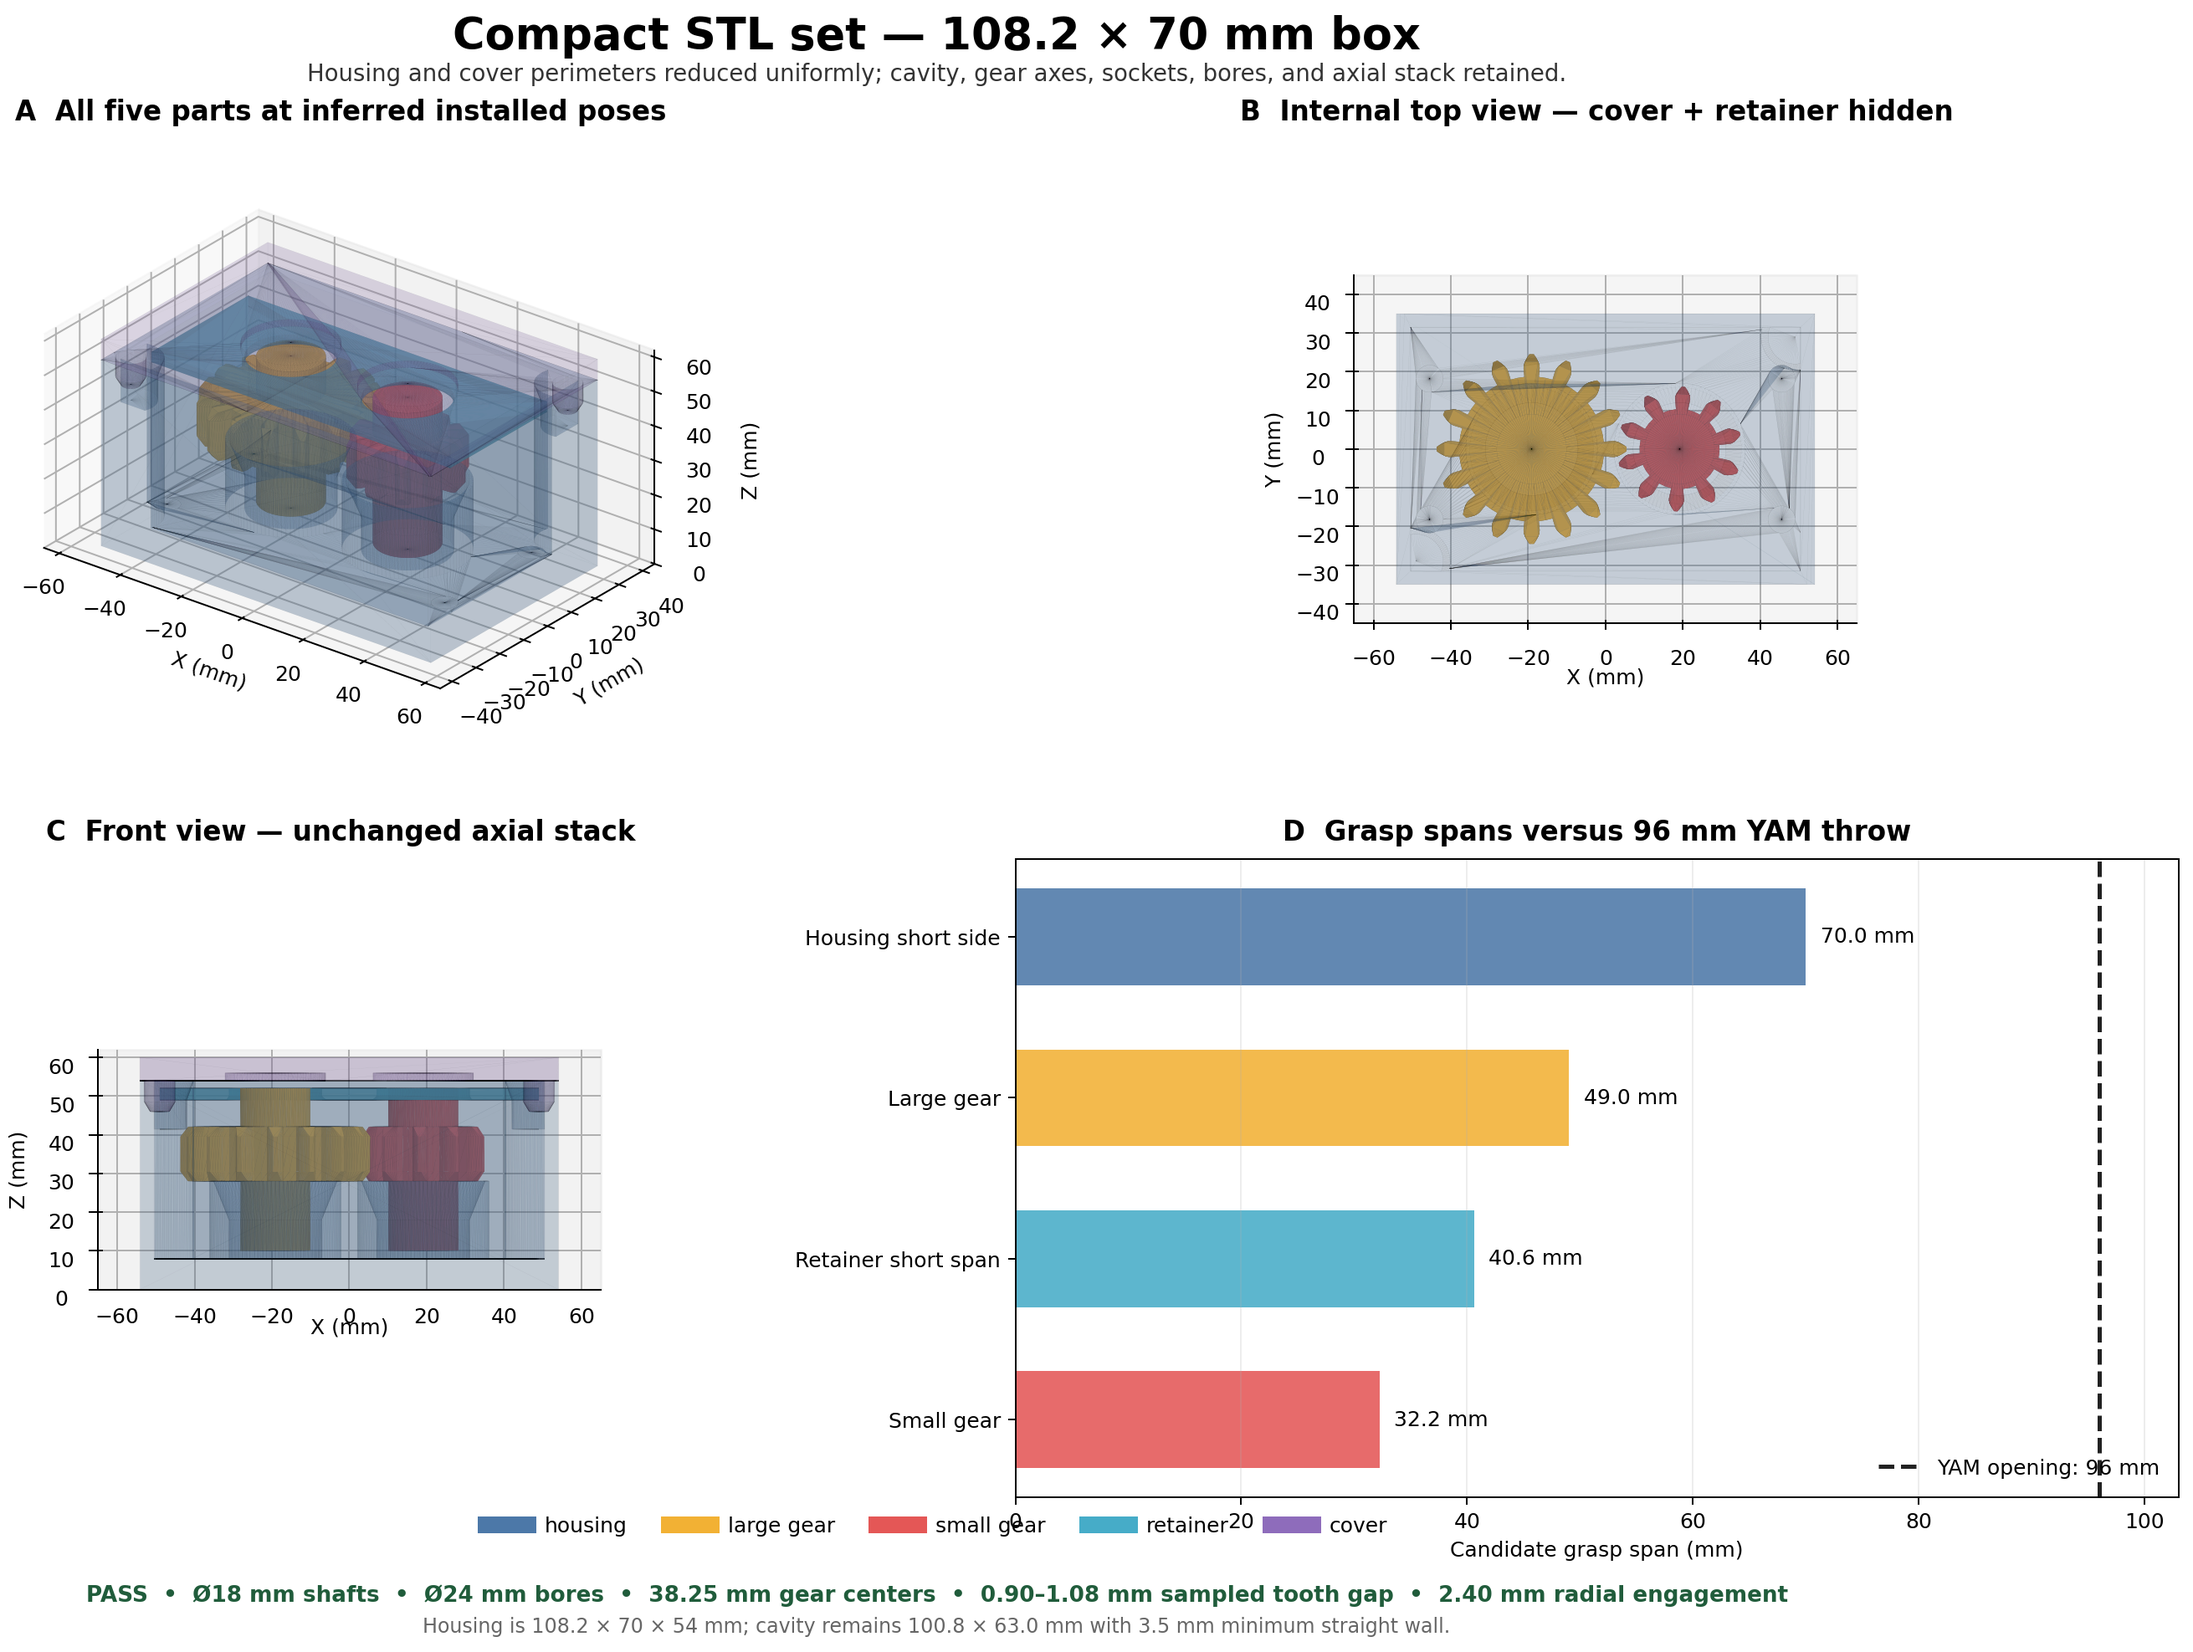
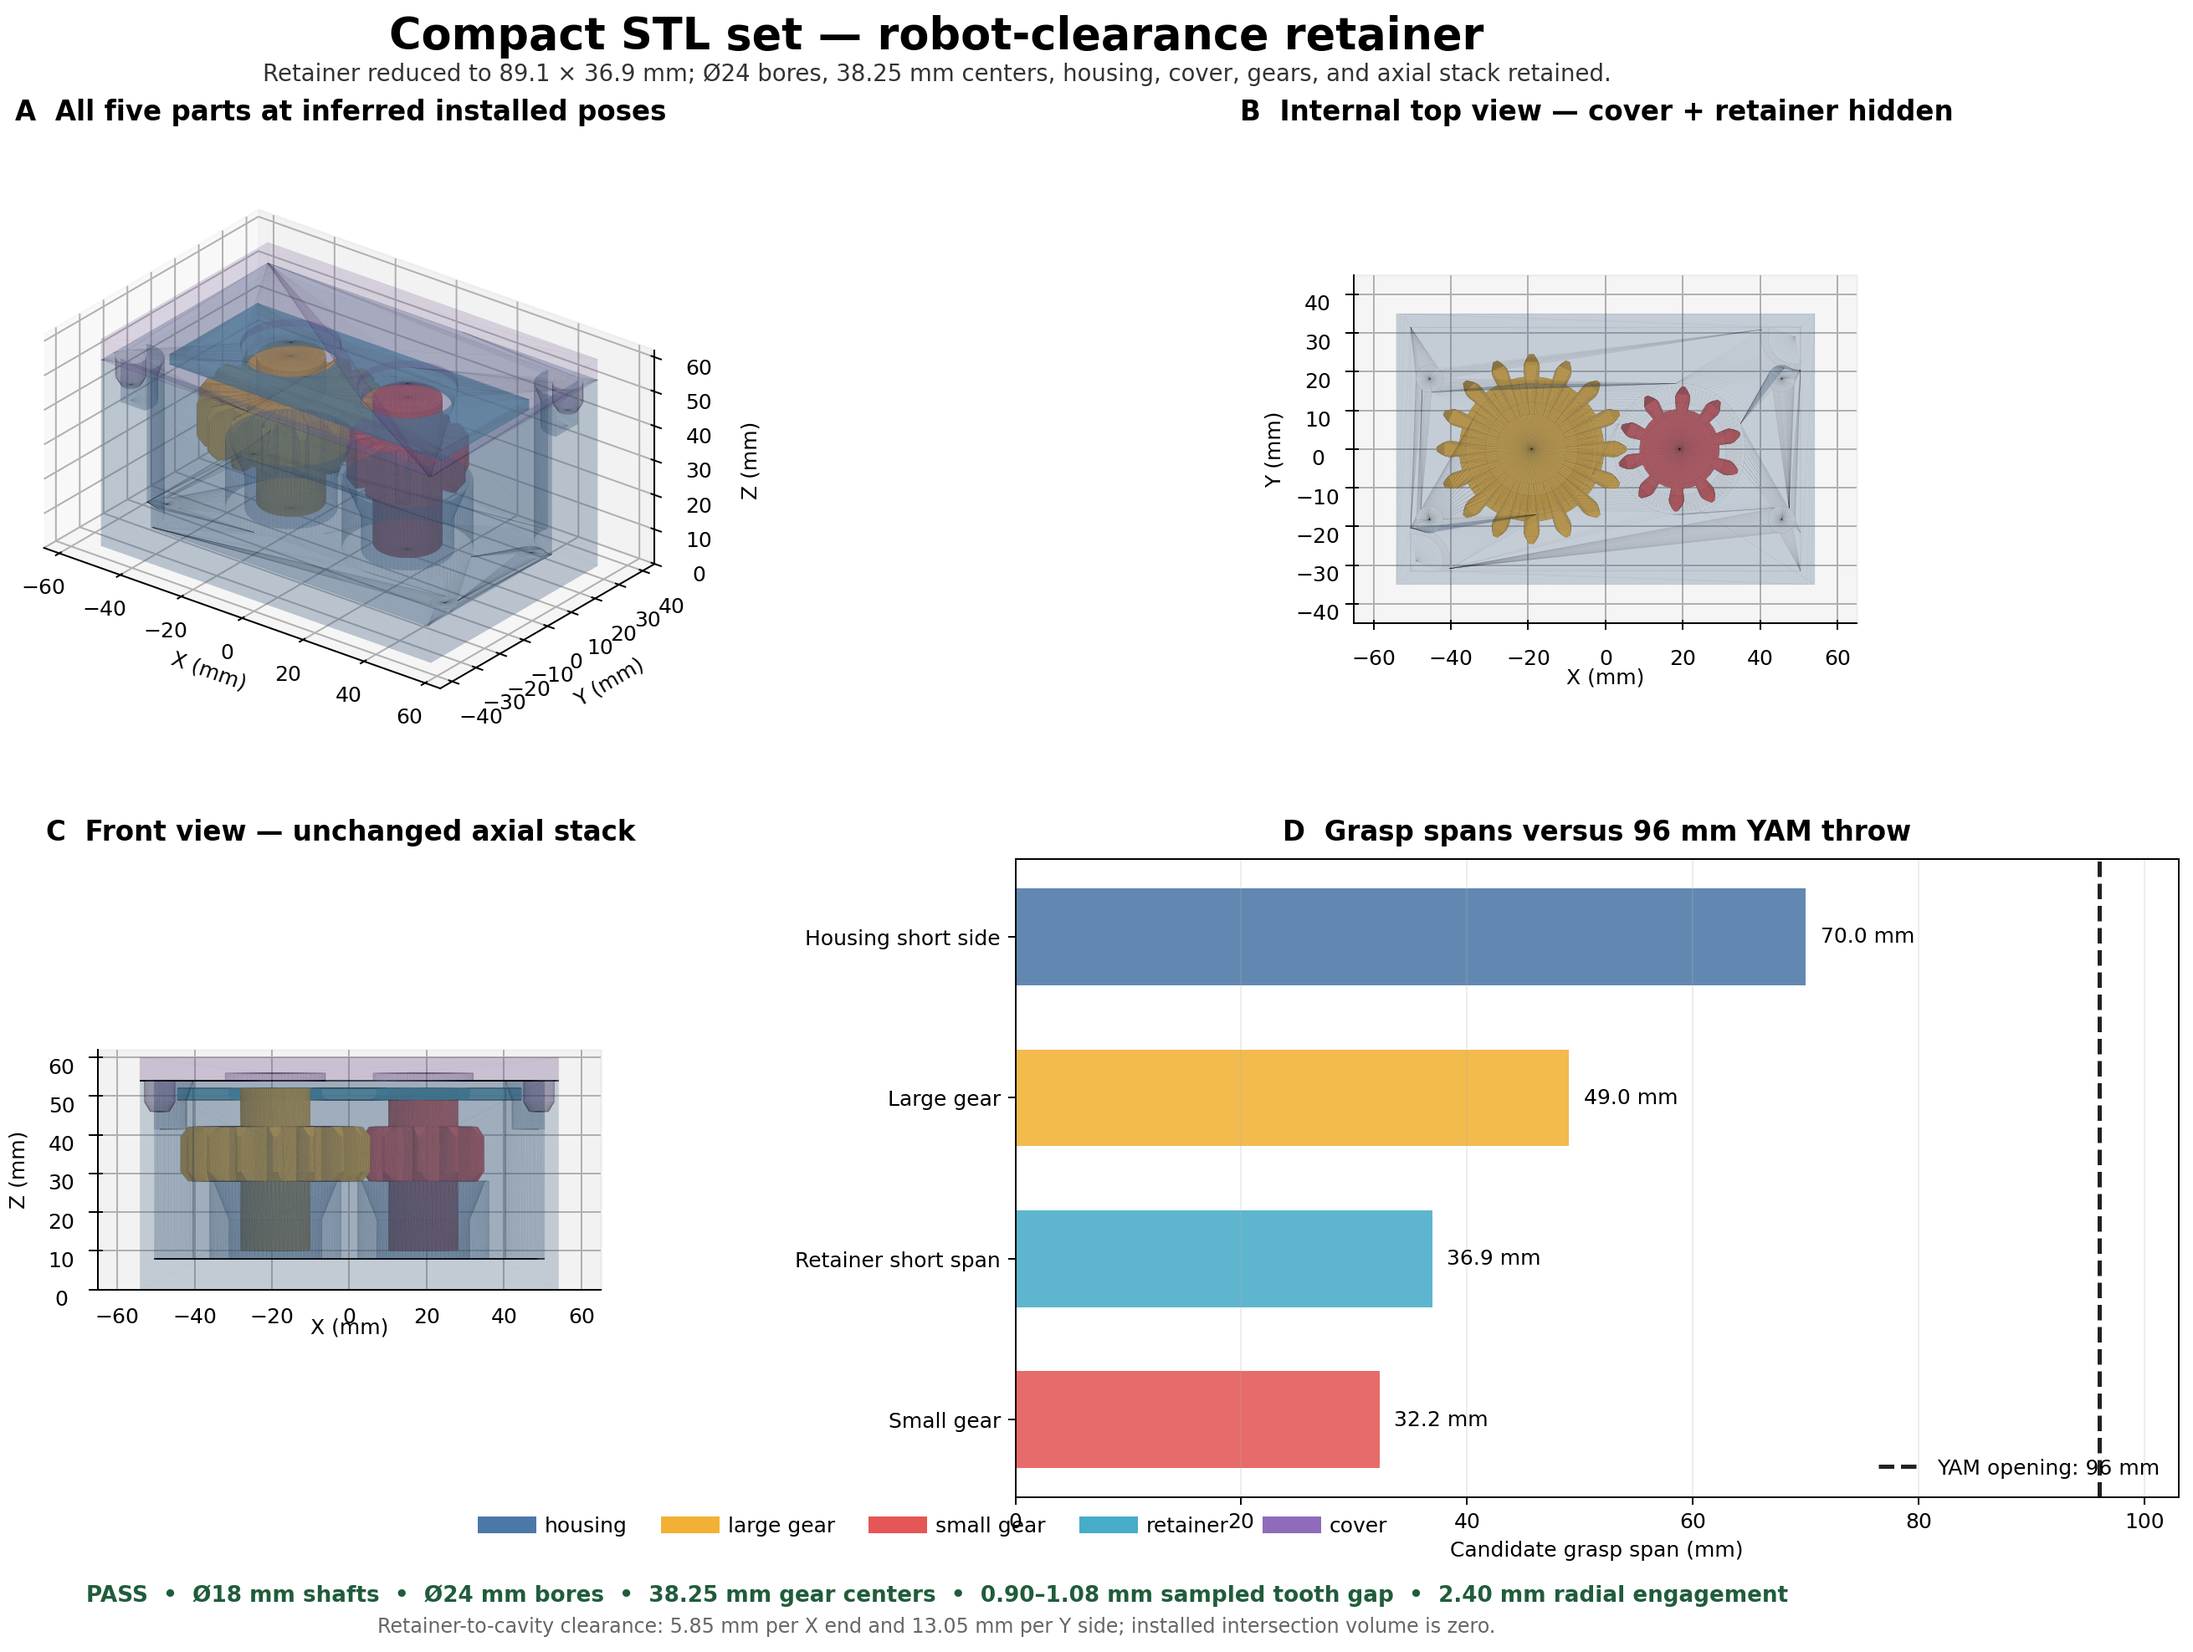
Resize retainer for robot insertion clearance

diff --git a/README.md b/README.md
@@ -7,6 +7,8 @@ Five watertight STL parts prepared for a YAM robotic assembly task.
 - Cover footprint: 108.18 x 70 mm
 - Housing cavity opening: 100.8 x 63.0 mm (0.90x the prior opening)
 - Minimum straight housing wall: 3.5 mm
+- Retainer: 89.09 x 36.91 x 3 mm
+- Retainer clearance inside cavity: 5.85 mm per X end, 13.05 mm per Y side
 - Large gear: 49.0 mm maximum diameter
 - Small gear: 32.2 mm maximum diameter
 - Shafts retained at 18 mm diameter
@@ -32,6 +34,8 @@ half of each tooth is then shortened, leaving
 the tooth roots and lower flanks unchanged. The four vertical housing columns
 are removed while retaining the 8 mm base, outer walls, diagonal cover sockets,
 gear supports, and all mating geometry. The main housing cavity is reduced to
-90% of its prior XY opening while the Ø24 shaft bores remain unchanged.
+90% of its prior XY opening while the Ø24 shaft bores remain unchanged. The
+retainer perimeter is reduced proportionally for robot-friendly insertion while
+its Ø24 holes and 38.25 mm center spacing remain unchanged.
 
 `preview.png` shows the inferred assembly and candidate grasp spans.
